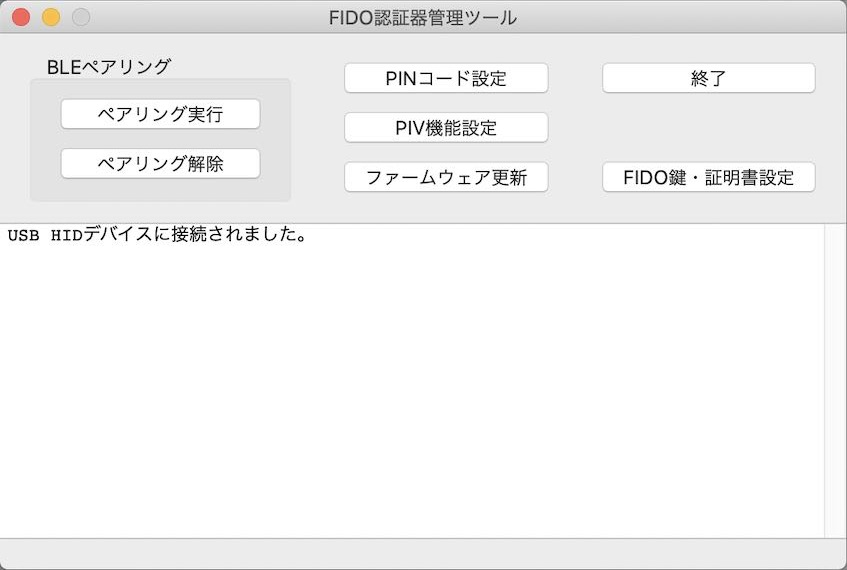
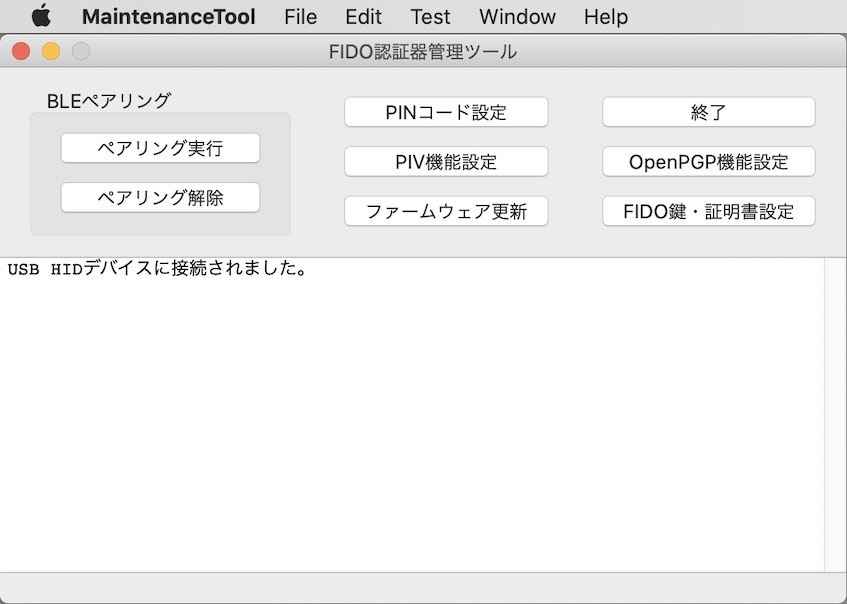
ドキュメントを更新
・OpenPGP機能の基本設定手順書を追加

diff --git a/MaintenanceTool/macOSApp/PGPSETTING.md b/MaintenanceTool/macOSApp/PGPSETTING.md
@@ -1,0 +1,177 @@
+# OpenPGP機能の基本設定手順
+
+最終更新日：2021/12/30
+
+## 概要
+
+[FIDO認証器管理ツール](README.md)を使用して、[MDBT50Q Dongle](../../FIDO2Device/MDBT50Q_Dongle/README.md)に対し、OpenPGP機能に最低限必要な基本設定を行う手順を掲載します。
+
+## ソフトウェアのバージョン確認
+
+OpenPGP機能は、[CCIDインターフェース](../../CCID/README.md)という仕組みを使用しております。<br>
+この仕組みを使用するためには、管理ツール、ファームウェア共に、必要バージョン以降である必要があります。
+
+#### 管理ツールのバージョン確認
+まずは[インストール手順](INSTALLPRG.md)を参照し、管理ツールをmacOSにインストールします。<br>
+次に、下記手順で管理ツールのバージョン確認を行い、<b>Version 0.1.38以降</b>であるかどうか確認します。
+
+管理ツールのメニュー「Preferences」を選択し、ツール設定画面を開きます。
+
+<img src="assets03/0001.jpg" width="400">
+
+ツール設定画面のタブ「バージョン」を選択し、バージョンを確認してください。<br>
+（下記例では「Version 0.1.38」となっております）
+
+<img src="assets07/0001.jpg" width="400">
+
+#### ファームウェアのバージョン確認
+続いて、下記手順でファームウェアのバージョン確認を行い、<b>0.3.1以降</b>であるかどうか確認します。
+
+[MDBT50Q Dongle](../../FIDO2Device/MDBT50Q_Dongle/README.md)をPCのUSBポートに装着した後、管理ツールのメニュー「Test-->USB-->バージョン情報取得」を選択します。
+
+<img src="assets05/0031.jpg" width="400">
+
+管理ツール下部のメッセージ欄に表示される、ファームウェアのバージョンを確認してください。<br>
+（下記例では「0.3.1」となっております）
+
+<img src="assets07/0002.jpg" width="400">
+
+## OpenPGP機能設定画面の表示
+
+OpenPGP機能の設定は「OpenPGP機能設定画面」上で行います。
+
+まずは管理ツールを起動し、USBポートに[MDBT50Q Dongle](../../FIDO2Device/MDBT50Q_Dongle/README.md)を装着します。<br>
+
+<img src="assets/0028.jpg" width="400">
+
+管理ツール画面下部のメッセージ欄に「USB HIDデバイスに接続されました。」と表示されることを確認したら、管理ツール画面の「OpenPGP機能設定」ボタンをクリックします。
+
+<img src="assets07/0003.jpg" width="400">
+
+ホーム画面の上に、OpenPGP機能設定画面がポップアップ表示されます。
+
+<img src="assets07/0004.jpg" width="400">
+
+以後の設定作業は、すべてこの「OpenPGP機能設定画面」で実行します。
+
+## 基本設定の実行
+
+OpenPGP機能に最低限必要な基本設定、すなわちPGP鍵のインストールを実行します。
+
+### PGP秘密鍵のインストール
+
+OpenPGP機能では、PGP秘密鍵を[MDBT50Q Dongle](../../FIDO2Device/MDBT50Q_Dongle/README.md)に導入する必要があります。
+
+導入が必要な秘密鍵は、以下の３セットになります。<br>
+いずれも、本機能で自動生成されます。
+
+- 電子署名用（Signature key）
+- 暗号／復号化用（Encryption key）
+- PGP認証用（Authentication key）
+
+以下の手順により、３セットの秘密鍵をすべてインストールします。
+
+#### インストール手順
+
+まずはインストールする鍵の個人情報を入力します。<br>
+全項目入力必須になります。
+
+- 名前（５文字以上で入力します）
+- メールアドレス
+- コメント
+
+<img src="assets07/0005.jpg" width="400">
+
+次に、各種ファイルの出力先フォルダーを選択します。<br>
+「PGP公開鍵」欄右側の「参照」ボタンをクリックします。
+
+<img src="assets07/0006.jpg" width="400">
+
+フォルダー参照ダイアログから、該当の出力先フォルダーを選択し「選択」ボタンをクリックします。
+
+<img src="assets07/0007.jpg" width="400">
+
+フォルダー欄に、選択された出力先フォルダーのパスが表示されます。<br>
+（長いフォルダー名の場合は、マウスカーソルを上から当てると、フルパス名称が小さくToolTip表示されます）
+
+<img src="assets07/0008.jpg" width="400">
+
+同様に、バックアップファイルの出力先フォルダーも選択します。
+
+<img src="assets07/0009.jpg" width="400">
+
+PGP公開鍵、バックアップ両方の出力先フォルダーを選択したら、下部の認証情報欄に、OpenPGP機能で使用する管理用PIN番号を入力します。[注1]
+
+PIN番号を入力したら、下部の「PGP秘密鍵のインストール」ボタンをクリックします。
+
+<img src="assets07/0010.jpg" width="400">
+
+下記のような確認ダイアログが表示されますので、Yesボタンをクリックします。
+
+<img src="assets07/0011.jpg" width="400">
+
+PGP秘密鍵のインストール処理が実行されます。<br>
+程なく、下図のようなメッセージがポップアップ表示され、処理が完了します。
+
+<img src="assets07/0012.jpg" width="400">
+
+[注1] 管理用PIN番号は初期状態では「`12345678`」となっております。最終更新日現在、管理ツールにはPIN番号の変更機能は有りません。GPG Suiteのコマンド`gpg --card-edit`を使用し、PIN番号を変更することは可能です。
+
+### 確認手順
+
+インストールされた証明書は「OpenPGP設定情報取得画面」で確認できます。<br>
+OpenPGP機能設定画面の左下部のボタン「設定情報を参照」をクリックします。
+
+<img src="assets07/0013.jpg" width="400">
+
+下図のようなOpenPGP設定情報取得画面がポップアップ表示されます。<br>
+以下の３点が設定されていることが確認できます。
+
+- 電子署名用（Signature key）の設定情報
+- 暗号／復号化用（Encryption key）の設定情報
+- PGP認証用（Authentication key）の設定情報
+
+<img src="assets07/0014.jpg" width="400">
+
+以上で、PGP秘密鍵のインストールは完了です。
+
+## OpenPGP機能設定情報の消去
+
+万が一、管理用PIN番号を３回連続で間違えて指定した場合は、認証がブロックされます。<br>
+他方、管理用PIN番号のリセット機能は存在しません。
+
+したがって、[MDBT50Q Dongle](../../FIDO2Device/MDBT50Q_Dongle/README.md)において、再び管理用PIN番号が利用できるようにするためには、いったんOpenPGP機能設定情報を全て消去する必要があります。<br>
+この場合、OpenPGP機能に関連する以下の設定情報が全て消去されてしまいますので、ご注意ください。
+
+- 電子署名用（Signature key）の設定情報
+- 暗号／復号化用（Encryption key）の設定情報
+- PGP認証用（Authentication key）の設定情報
+
+OpenPGP機能設定情報の消去を実行するためには、OpenPGP機能設定画面の右下部「設定情報を消去」ボタンをクリックします。
+
+<img src="assets07/0015.jpg" width="400">
+
+下記のような確認ダイアログが表示されますので、Yesボタンをクリックします。
+
+<img src="assets07/0016.jpg" width="400">
+
+設定情報消去処理が実行されます。<br>
+程なく、下図のようなメッセージがポップアップ表示され、処理が完了します。
+
+<img src="assets07/0018.jpg" width="400">
+
+OpenPGP設定情報取得画面で確認すると、下記３点の設定情報が消去されたことを示しています。
+
+- 電子署名用（Signature key）
+- 暗号／復号化用（Encryption key）
+- PGP認証用（Authentication key）
+
+<img src="assets07/0019.jpg" width="400">
+
+これでOpenPGP機能設定の消去は完了です。
+
+#### エラーメッセージが表示された場合
+
+下図のようなエラーメッセージが表示された場合、一旦MDBT50Q DongleをPCのUSBポートから取り出し、再度装着した後、処理を再試行していただけますようお願いします。
+
+<img src="assets07/0017.jpg" width="400">
